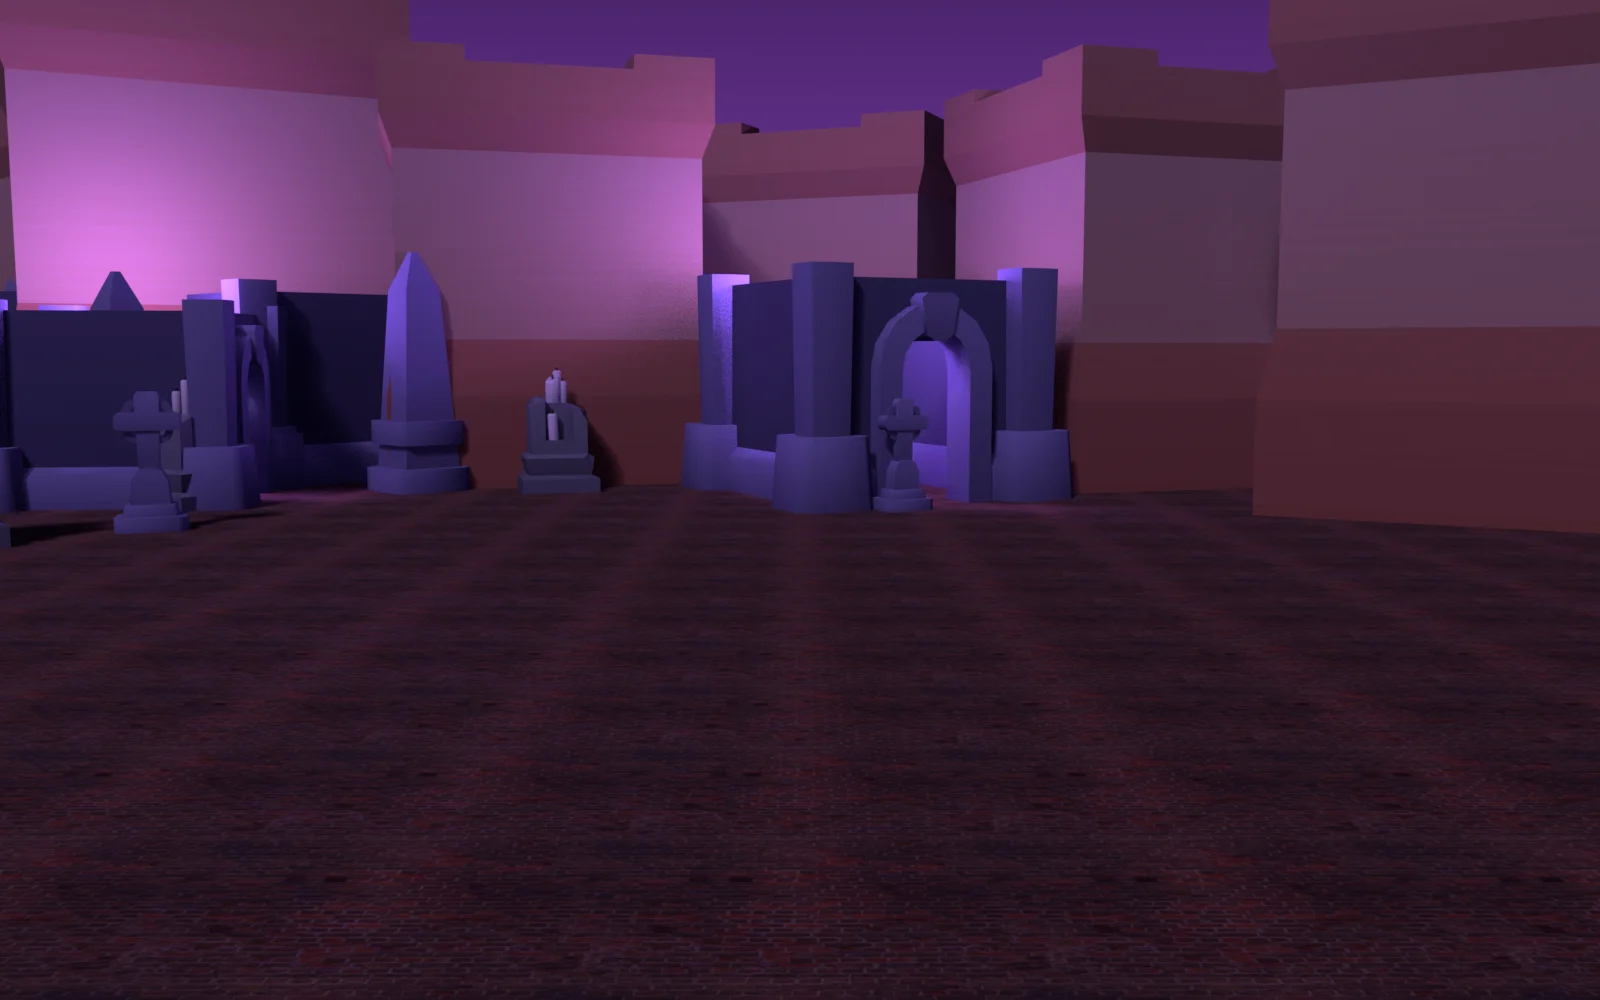
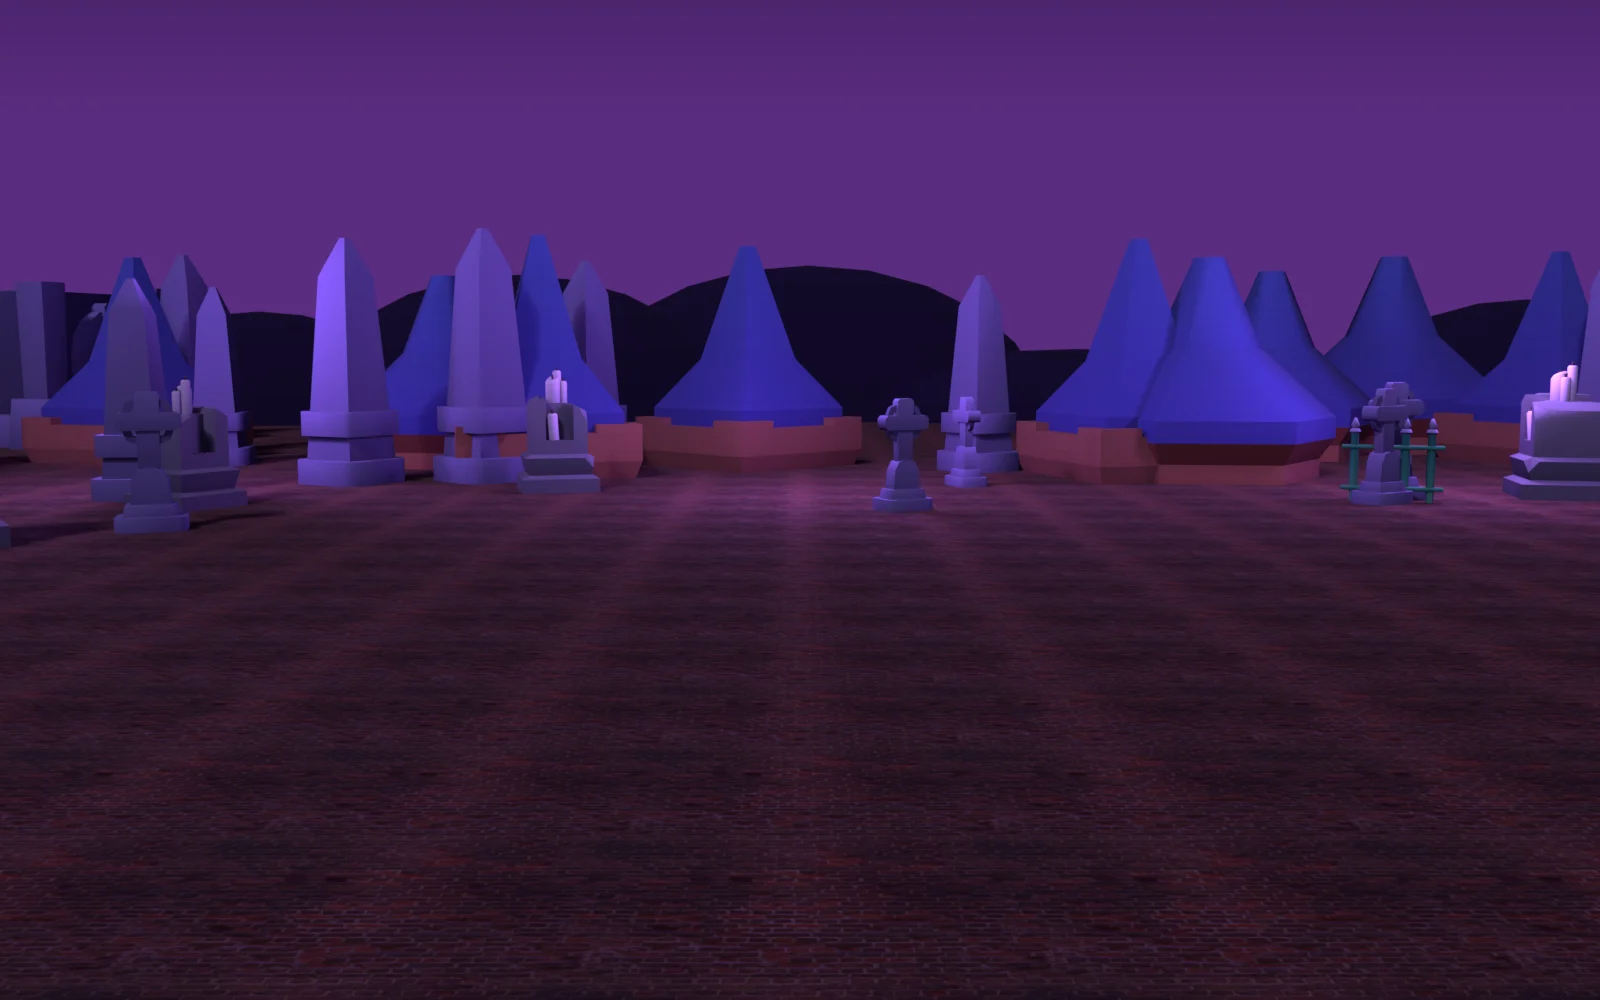
Build 80fa00567e28

diff --git a/sw.js b/sw.js
@@ -1,5 +1,5 @@
 // Hearthguard offline helper. VERSION changes with every build so updates arrive on their own.
-const VERSION = 'hg-94d384c4b8e1';
+const VERSION = 'hg-80fa00567e28';
 const CORE = ['./', 'index.html', 'manifest.webmanifest', 'icon-180.png', 'icon-512.png'];
 self.addEventListener('install', e => { e.waitUntil(caches.open(VERSION).then(c => c.addAll(CORE)).then(() => self.skipWaiting())); });
 self.addEventListener('activate', e => {
